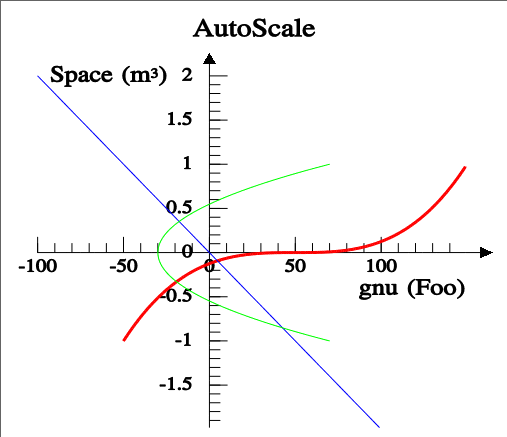
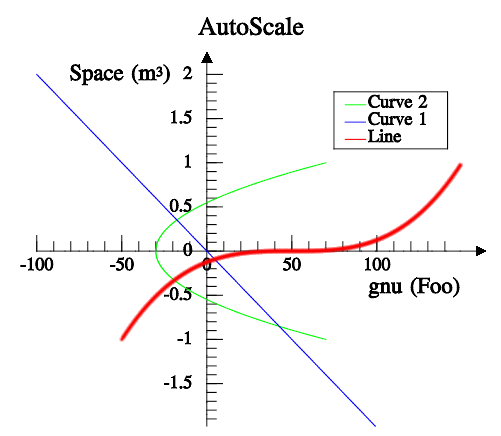
*** empty log message ***

diff --git a/html/en/ctrl/iup_mglplot.html b/html/en/ctrl/iup_mglplot.html
@@ -357,7 +357,8 @@ returns the last error message reported by MathGL.</p>
 <p><b><a href="../attrib/iup_fgcolor.html">FGCOLOR</a></b>:  the default color 
 used in all text elements of the plot: title, legend and labels. Default: &quot;0 0 0&quot;.</p>
 <p><strong>OPENGL</strong> (non inheritable): Enable or disable the rendering in 
-OpenGL. Default: Yes. When NO the rendering is slower and done in a RGB image.</p>
+OpenGL. Default: No. When NO the rendering is slower, but when Yes some features 
+does not behave as expected. See <a href="#KnownIssues">Known Issues</a>.</p>
 <p><b>REDRAW</b> (write-only)(non inheritable): redraw the plot and update the display. Value is 
 ignored. All other attributes will <span class="style1"><strong>NOT</strong></span> update the display, so you can set many 
 attributes without visual output. If the element is redraw by the system because 
@@ -755,23 +756,26 @@ IupPPlotTransform       -&gt; IupMglPlotTransform  (now includes z coordinate)
    (cdCanvasText)       -&gt; IupMglPlotDrawText
 IupPPlotPaintTo         -&gt; IupMglPlotPaintTo    (parameters are different)</pre>
 
-<h3>Known Issues</h3>
+<h3><a name="KnownIssues">Known Issues</a></h3>
 <ul>
 	<li>Selection and editing of a dataset using the DS_EDIT attribute are not 
 	implemented.</li>
 	<li>Automatic ticks computation needs to be improved.</li>
 	<li>There is still lots of MathGL features not available in IupMglPlot.</li>
-	<li><font SIZE="3">When OPENGL=Yes and ANTIALIAS=Yes 3D graphs will not 
-	process depth properly. (OpenGL configuration)</font></li>
-	<li>Graph is disappearing during zoom in, <font SIZE="3">when OPENGL=Yes</font>, 
-	after a zoom factor. Maybe a depth clipping.<font SIZE="3"> (OpenGL 
-	configuration)</font></li>
-	<li>The control of ticks being oriented inside or outside the graph is not 
-	working. (MathGL)</li>
-	<li>Bar graph is clipped at 0 and n-1. (MathGL)</li>
-	<li>When tick labels are specified all ticks are displayed. (MathGL)</li>
+	<li><font SIZE="3">When OPENGL=Yes and ANTIALIAS=Yes, 3D graphs will not 
+	process depth properly. (OpenGL configuration?)</font></li>
+	<li><font SIZE="3">When OPENGL=Yes</font>, Graph is disappearing during zoom in, after a zoom factor. Maybe a depth clipping 
+	problem.<font SIZE="3"> (OpenGL 
+	configuration?)</font></li>
+	<li><font SIZE="3">When OPENGL=Yes</font>, Legend box is not being 
+	displayed. (MathGL)</li>
 	<li><font SIZE="3">When OPENGL=Yes aspect ratio of text and marks are not 
 	respected.(MathGL)</font></li>
+	<li>The control of ticks being oriented inside or outside the graph is not 
+	working. (MathGL)</li>
+	<li>Bar graph is clipped at 0 and at n-1. (MathGL)</li>
+	<li>When tick labels are specified all ticks are displayed regardless of 
+	tick spacing configuration. (MathGL)</li>
 </ul>
 
 <h3><a name="SeeAlso">See Also</a></h3>

diff --git a/srcmglplot/iup_mglplot.cpp b/srcmglplot/iup_mglplot.cpp
@@ -468,6 +468,44 @@ static char* iMglPlotConfigPen(mglGraph *gr, char* pen, char line_style, float l
   return pen;
 }
 
+static char iMglPlotFindColor(const mglColor& c1)
+{
+  int i;
+  char id = 0;
+  mreal old_diff = -1, diff, rr, bb, gg;
+
+	for(i=0; mglColorIds[i].id; i++)
+  {
+    const mglColor& c2 = mglColorIds[i].col;
+    rr = c1.r-c2.r;
+    gg = c1.g-c2.g;
+    bb = c1.b-c2.b;
+    diff = rr*rr + gg*gg + bb*bb;
+    if (old_diff==-1 ||
+        diff < old_diff)
+    {
+      id = mglColorIds[i].id;
+      old_diff = diff;
+    }
+  }
+
+  //if (diff > XXX)
+  //  return 'k';
+  //else
+    return id;
+}
+
+static void iMglPlotConfigDataSetColor(IdataSet* ds, char* style)
+{
+  style += strlen(style); // Skip previous configuration
+
+  char id = iMglPlotFindColor(ds->dsColor);
+  if (id)
+    *style++ = id;
+
+  *style = 0;
+}
+
 static void iMglPlotConfigDataSetLineMark(IdataSet* ds, mglGraph *gr, char* style)
 {
   style += strlen(style); // Skip previous configuration
@@ -1579,8 +1617,9 @@ static void iMglPlotDrawLegend(Ihandle* ih, mglGraph *gr)
   {
     IdataSet* ds = &ih->data->dataSet[i];
 
-    //TODO
-    //iMglPlotConfigDataSetLineMark(ds, gr, style);
+    style[0] = 0;
+    iMglPlotConfigDataSetLineMark(ds, gr, style);
+    iMglPlotConfigDataSetColor(ds, style);
     gr->AddLegend(ds->dsLegend, style);
   }
 
@@ -1604,10 +1643,13 @@ static void iMglPlotDrawPlot(Ihandle* ih, mglGraph *gr)
   // Since this function will be used to draw on screen and
   // on metafile and bitmaps, all mglGraph control must be done here
   // and can NOT be done inside the attribute methods
-  gr->DefaultPlotParam();
 
   gr->Message = &(ih->data->ErrorMessage[0]);
   ih->data->ErrorMessage[0] = 0;
+
+  gr->DefaultPlotParam();
+
+  gr->Clf(ih->data->bgColor); /* Clear */
 
   iMglPlotConfigView(ih, gr);
 
@@ -1655,8 +1697,6 @@ static void iMglPlotRepaint(Ihandle* ih, int force, int flush)
 
   if (force || ih->data->redraw)
   {
-    ih->data->mgl->Clf(ih->data->bgColor); /* Clear */
-
     /* update render */
     iMglPlotDrawPlot(ih, ih->data->mgl);  /* Draw the graphics plot */
 
@@ -3634,7 +3674,11 @@ static int iMglPlotSetOpenGLAttrib(Ihandle* ih, const char* value)
       ih->data->mgl = new mglGraphGL();
     else
     {
-      iMglPlotInitOpenGL2D();
+      if (ih->handle)
+      {
+        IupGLMakeCurrent(ih);
+        iMglPlotInitOpenGL2D();
+      }
       ih->data->mgl = new mglGraphZB(ih->data->w, ih->data->h);
     }
   }
@@ -4789,10 +4833,9 @@ static int iMglPlotCreateMethod(Ihandle* ih, void **params)
   IupSetAttribute(ih, "BUFFER", "DOUBLE");
 
   ih->data->redraw = true;
-  ih->data->opengl = true;
   ih->data->w = 1;
   ih->data->h = 1;
-  ih->data->mgl = new mglGraphGL();
+  ih->data->mgl = new mglGraphZB(ih->data->w, ih->data->h);
 
   // Default values
   iMglPlotReset(ih);
@@ -4837,7 +4880,7 @@ static Iclass* iMglPlotNewClass(void)
   iupClassRegisterAttribute(ic, "REDRAW", NULL, iMglPlotSetRedrawAttrib, NULL, NULL, IUPAF_WRITEONLY|IUPAF_NO_INHERIT);
   iupClassRegisterAttribute(ic, "ALPHA", iMglPlotGetAlphaAttrib, iMglPlotSetAlphaAttrib, IUPAF_SAMEASSYSTEM, "0.5", IUPAF_NOT_MAPPED|IUPAF_NO_INHERIT);
   iupClassRegisterAttribute(ic, "TRANSPARENT", iMglPlotGetTransparentAttrib, iMglPlotSetTransparentAttrib, IUPAF_SAMEASSYSTEM, "No", IUPAF_NOT_MAPPED|IUPAF_NO_INHERIT);
-  iupClassRegisterAttribute(ic, "OPENGL", iMglPlotGetOpenGLAttrib, iMglPlotSetOpenGLAttrib, IUPAF_SAMEASSYSTEM, "Yes", IUPAF_NOT_MAPPED|IUPAF_NO_INHERIT);
+  iupClassRegisterAttribute(ic, "OPENGL", iMglPlotGetOpenGLAttrib, iMglPlotSetOpenGLAttrib, IUPAF_SAMEASSYSTEM, "No", IUPAF_NOT_MAPPED|IUPAF_NO_INHERIT);
   iupClassRegisterAttribute(ic, "ANTIALIAS", iMglPlotGetAntialiasAttrib, iMglPlotSetAntialiasAttrib, "Yes", NULL, IUPAF_NO_INHERIT);
   iupClassRegisterAttribute(ic, "MGLFONT", NULL, NULL, NULL, NULL, IUPAF_NOT_MAPPED|IUPAF_NO_INHERIT);
   iupClassRegisterAttribute(ic, "RESET", NULL, iMglPlotSetResetAttrib, NULL, NULL, IUPAF_WRITEONLY|IUPAF_NOT_MAPPED|IUPAF_NO_INHERIT);
@@ -5047,8 +5090,6 @@ void IupMglPlotOpen(void)
 
 To Release:
   LoadFont
-  document DS_MODE Options
-  Legend  
 
 Next Version:
   DS_EDIT+Selection+Callbacks
@@ -5065,8 +5106,10 @@ Maybe:
   Ternary
 
 MathGL:
-  ***improve autoticks computation
   evaluate interval, [-1,1] x [0,1] x [0,n-1]
+  ***improve autoticks computation
+  ***Legend does not work in OpenGL
+  ***Legend background is always white regardless of plot background
   ***gr->Box AND gr->ContFA have different results in OpenGL. 
      It seems to have an invalid depth. Without OpenGL works fine.
      SOLVED BY CALLING glEnable(GL_DEPTH_TEST), but this affected anti-aliasing.
@@ -5077,8 +5120,8 @@ MathGL:
      SetTickLen - documentation says negative len puts ticks outside the bounding box, but it is NOT working
      ***TicksVal should follow ticks spacing configuration 
   Fonts
-     ***font aspect ratio not being mantained
+     ***font aspect ratio not being mantained in OpenGL
      ***additional library to load TTF and OTF using FreeType
         vfm too slow to load font, need a binary format
-     ***option to draw an opaque background for text
+     option or function to draw an opaque background for text
 */

diff --git a/test/mglplot.c b/test/mglplot.c
@@ -12,8 +12,18 @@
 #include <string.h>
 #include <math.h>
 
+#define USE_IM 1
+#ifdef USE_IM
+#include "im.h"
+#include "im_image.h"
+#include "im_convert.h"
+#include "im_process.h"
+#endif
 
 #include "iup.h"
+#ifdef USE_IM
+#include "iupim.h"
+#endif
 #include "iupcontrols.h"
 #include "iup_mglplot.h"
 
@@ -556,19 +566,40 @@ static int dial2_btnup_cb(Ihandle *self, double angle)
   return IUP_DEFAULT;
 }
 
+#ifdef USE_IM
+static int bt1_cb(Ihandle* self)
+{
+  imImage* image;
+  int w, h;
+  void* gldata;
+  int ii = tabs_get_index();
+  IupGetIntInt(plot[ii], "DRAWSIZE", &w, &h);
+  gldata = malloc(w*h*3);
+  image = imImageCreate(w, h, IM_RGB, IM_BYTE);
+  IupMglPlotPaintTo(plot[ii], "RGB", w, h, 0, gldata);
+  imConvertPacking(gldata, image->data[0], w, h, 3, 3, IM_BYTE, 1);
+  imProcessFlip(image, image);
+  imFileImageSave("../mglplot.png", "PNG", image);
+  free(gldata);
+  imImageDestroy(image);
+  (void)self;
+  return IUP_DEFAULT;
+}
+#else
 static int bt1_cb(Ihandle *self)
 {
   int ii = tabs_get_index();
 //  IupSetAttribute(plot[ii], "CLEAR", "Yes");
 //  IupSetAttribute(plot[ii], "REMOVE", "0");
 //  IupSetAttribute(plot[ii], "ANTIALIAS", !IupGetInt(plot[ii], "ANTIALIAS")? "Yes": "No");
-//  IupSetAttribute(plot[ii], "OPENGL", !IupGetInt(plot[ii], "OPENGL")? "Yes": "No");
-//  IupSetAttribute(plot[ii], "REDRAW", NULL);
+  IupSetAttribute(plot[ii], "OPENGL", !IupGetInt(plot[ii], "OPENGL")? "Yes": "No");
+  IupSetAttribute(plot[ii], "REDRAW", NULL);
 
-  IupMglPlotPaintTo(plot[ii], "EPS", 0, 0, 0, "../mglplot.eps");
-  IupMglPlotPaintTo(plot[ii], "SVG", 0, 0, 0, "../mglplot.svg");
+//  IupMglPlotPaintTo(plot[ii], "EPS", 0, 0, 0, "../mglplot.eps");
+//  IupMglPlotPaintTo(plot[ii], "SVG", 0, 0, 0, "../mglplot.svg");
   return IUP_DEFAULT;
 }
+#endif
 
 void MglPlotTest(void)
 {

diff --git a/srcmglplot/mgl/mgl_ab.cpp b/srcmglplot/mgl/mgl_ab.cpp
@@ -516,20 +516,26 @@ void mglGraphAB::Legend(int n, wchar_t **text,char **style, mreal x, mreal y,
 	Push();	Identity(rel);	//	memcpy(B,B1,9*sizeof(mreal));
 	if(LegendBox)	// draw bounding box
 	{
+    mreal mw = w*0.1f;
+    mreal mh = h*0.1f;
 		pp[2] = pp[5] = pp[8] = pp[11] = pp[14] = s3-0.01;
-		pp[0] = pp[9] = pp[12] = x;		pp[3] = pp[6] = x+w;
-		pp[1] = pp[4] = pp[13] = y-0.*h;		pp[7] = pp[10] = y+h*n;
+		pp[0] = pp[9] = pp[12] = x-mw;		pp[3] = pp[6] = x+w+2*mw;
+		pp[1] = pp[4] = pp[13] = y-mh;		pp[7] = pp[10] = y+h*n+2*mh;
 //		for(i=0;i<5;i++)	ScalePoint(pp[3*i],pp[3*i+1],pp[3*i+2]);
 		SelectPen(TranspType!=2 ? "k-1":"w-1");
 		curv_plot(5,pp,0);	// bounding rectangle
 		pp[2] = pp[5] = pp[8] = pp[11] = s3-0.01;
-		pp[0] = pp[6] = x;			pp[3] = pp[9] = x+w;
-		pp[1] = pp[4] = y-0.*h;		pp[7] = pp[10] = y+h*n;
-		DefColor(mglColor(1,1,1),1);
+		pp[0] = pp[6] = x-mw;			pp[3] = pp[9] = x+w+2*mw;
+		pp[1] = pp[4] = y-mh;		pp[7] = pp[10] = y+h*n+2*mh;
+
+    
+		DefColor(mglColor(BDef[0]/255.0f,BDef[1]/255.0f,BDef[2]/255.0f),1);
+//		DefColor(mglColor(1,1,1),1);
 //		for(i=0;i<4;i++)	ScalePoint(pp[3*i],pp[3*i+1],pp[3*i+2]);
 		surf_plot(2,2,pp,0,0);		// white rectangle below it
 	}
 	ScalePuts = false;
+
 	for(i=0;i<n;i++)	// draw lines and legend
 	{
 		char m=SelectPen(style[i]);

diff --git a/srcmglplot/mgl/mgl_axis.cpp b/srcmglplot/mgl/mgl_axis.cpp
@@ -1005,6 +1005,9 @@ void mglGraph::Legend(int n, wchar_t **text,char **style, int where,
 		w = w>x ? w:x;
 	}
 	w = (w + 1.1f*llen*1.5);	// add space for lines
+  // Add margins
+  w += 2*w*0.1f;
+  h += 2*h*0.1f;
 
 	switch(where)
 	{
